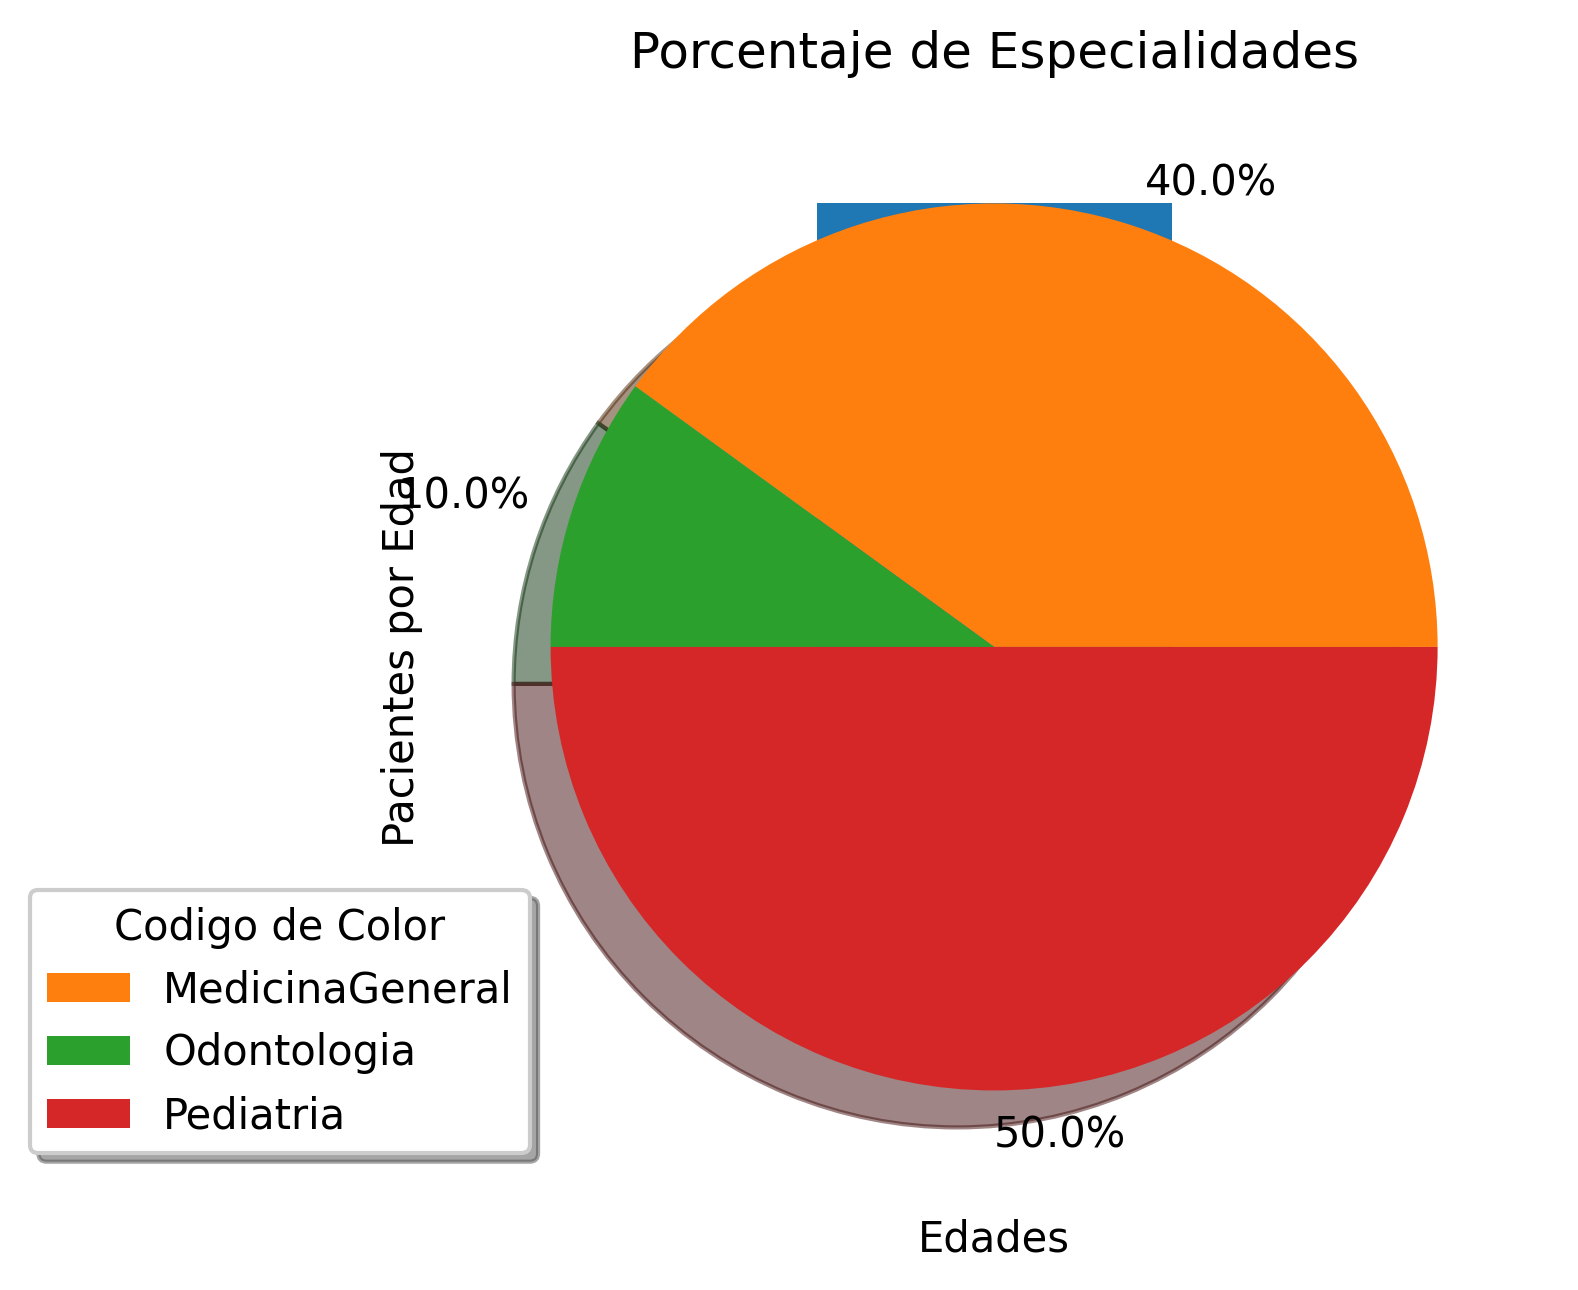
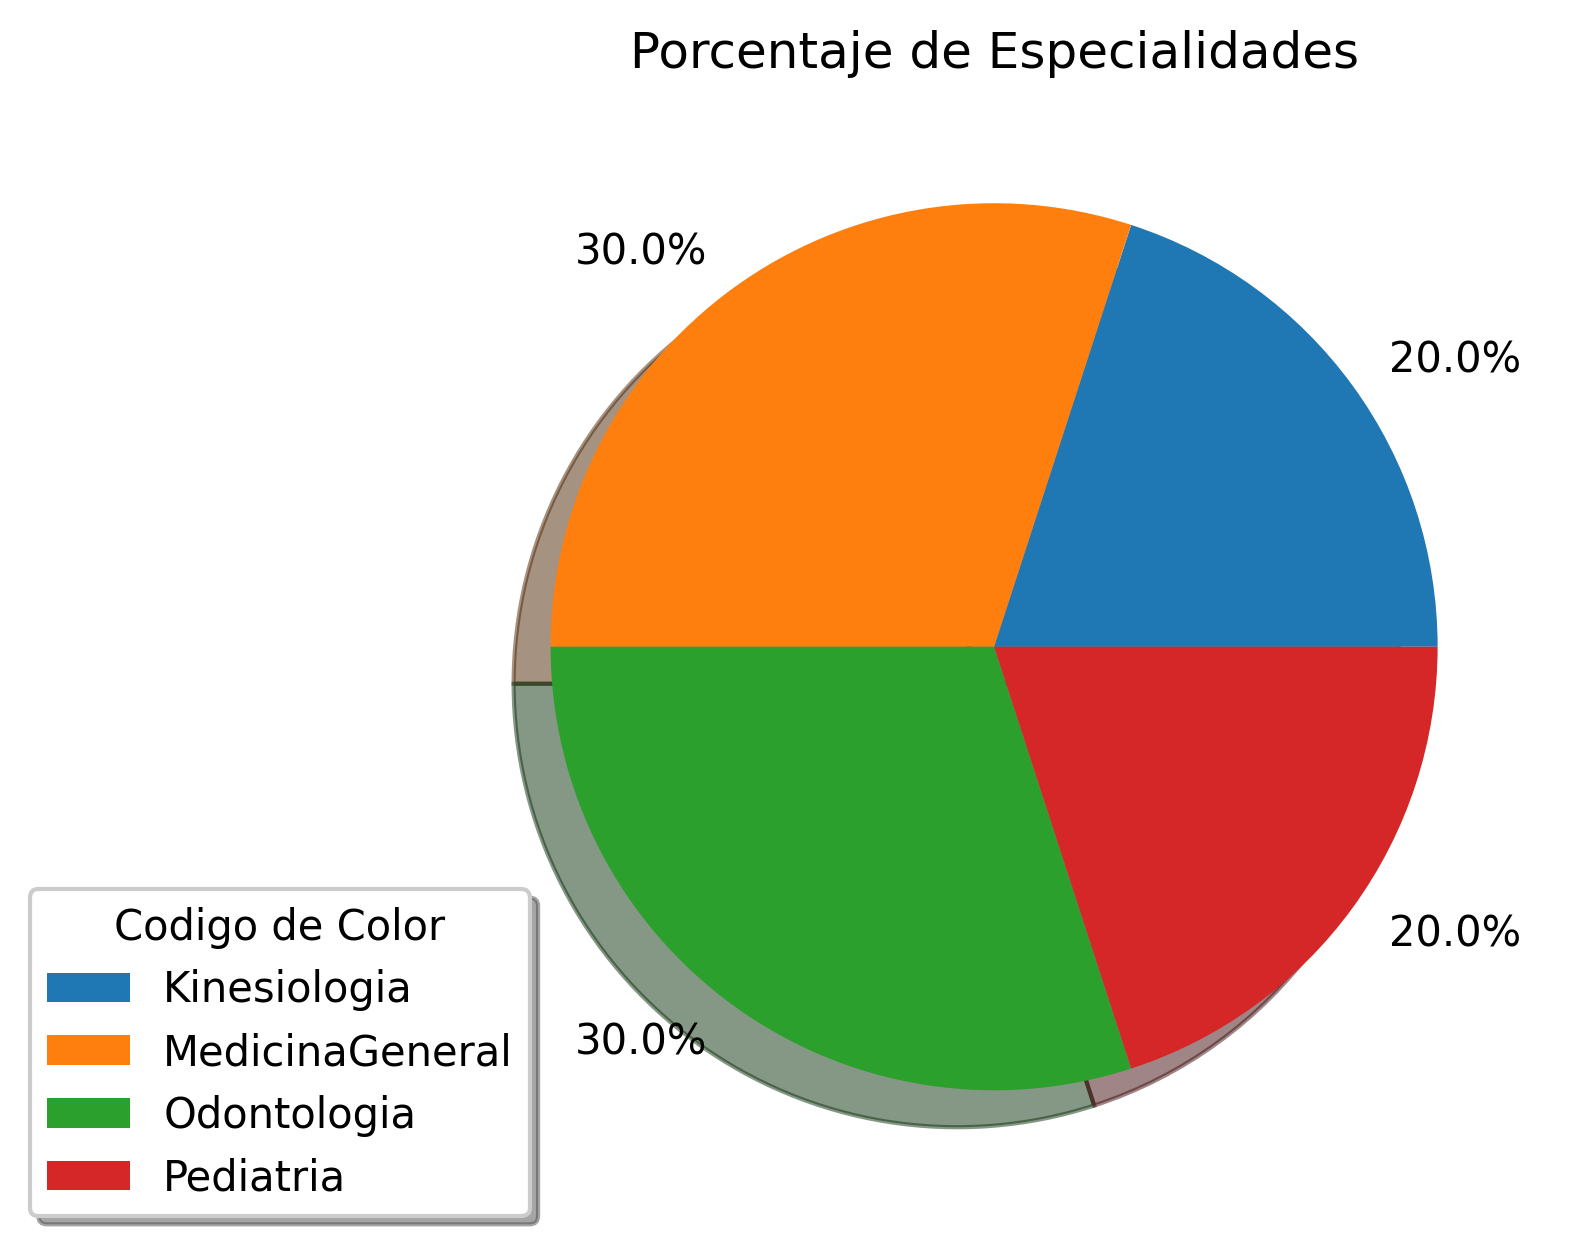
jhgdasssas

diff --git a/pruebas.py b/pruebas.py
@@ -208,11 +208,11 @@ def graficarDatos(_datos,_titulo,_f,_titulo_x="x",_titulo_y="y"):
 
 edad_pacientes = pd.read_csv('./datos/Pacientes.csv')
 edad_pacientes=edad_pacientes["edad"].values
-#graficarDatos(edad_pacientes,"Edades de los Pacientes","bar","Edades", "Pacientes por Edad")
+graficarDatos(edad_pacientes,"Edades de los Pacientes","bar","Edades", "Pacientes por Edad")
 
 especialidad_medicos = pd.read_csv('./datos/Medicos.csv')
 especialidad_medicos=especialidad_medicos["especialidad"].values
-#graficarDatos(especialidad_medicos,"Especialidades","pie")
+graficarDatos(especialidad_medicos,"Especialidades","pie")
 
 datos_modalidad = pd.read_csv("./datos/Citas.csv")
 datos_modalidad = datos_modalidad["modalidad"].values
